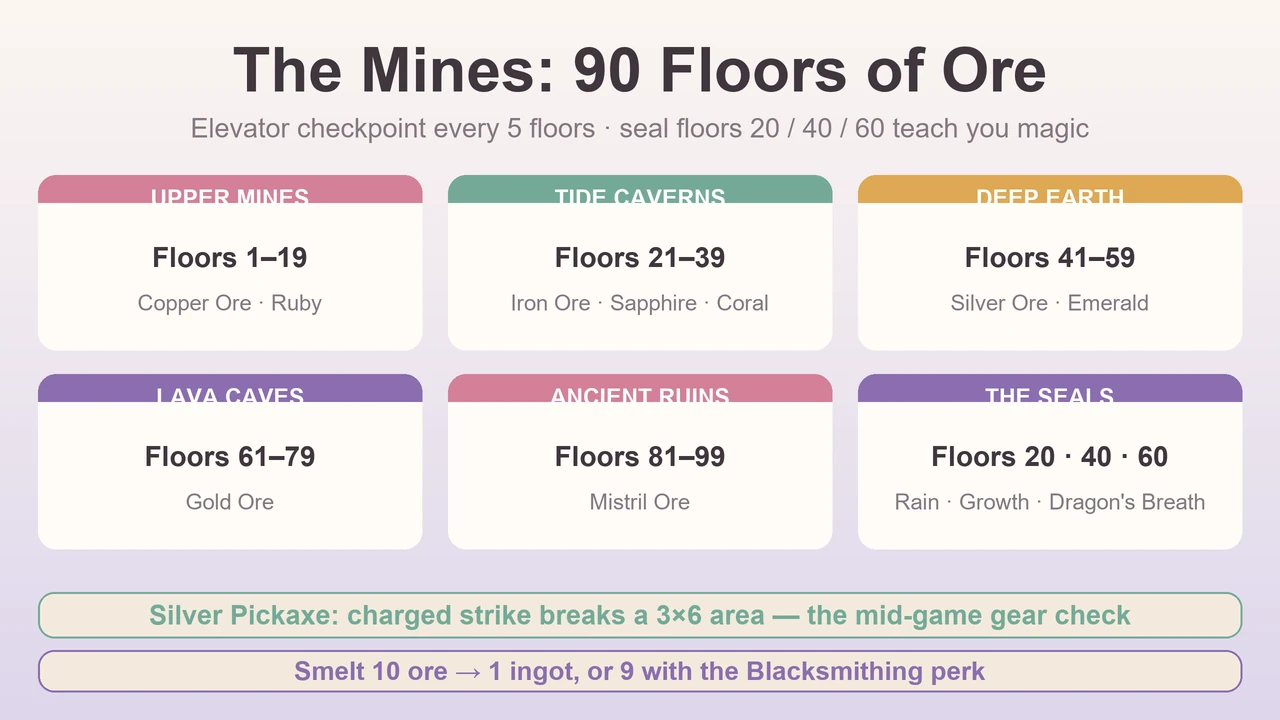
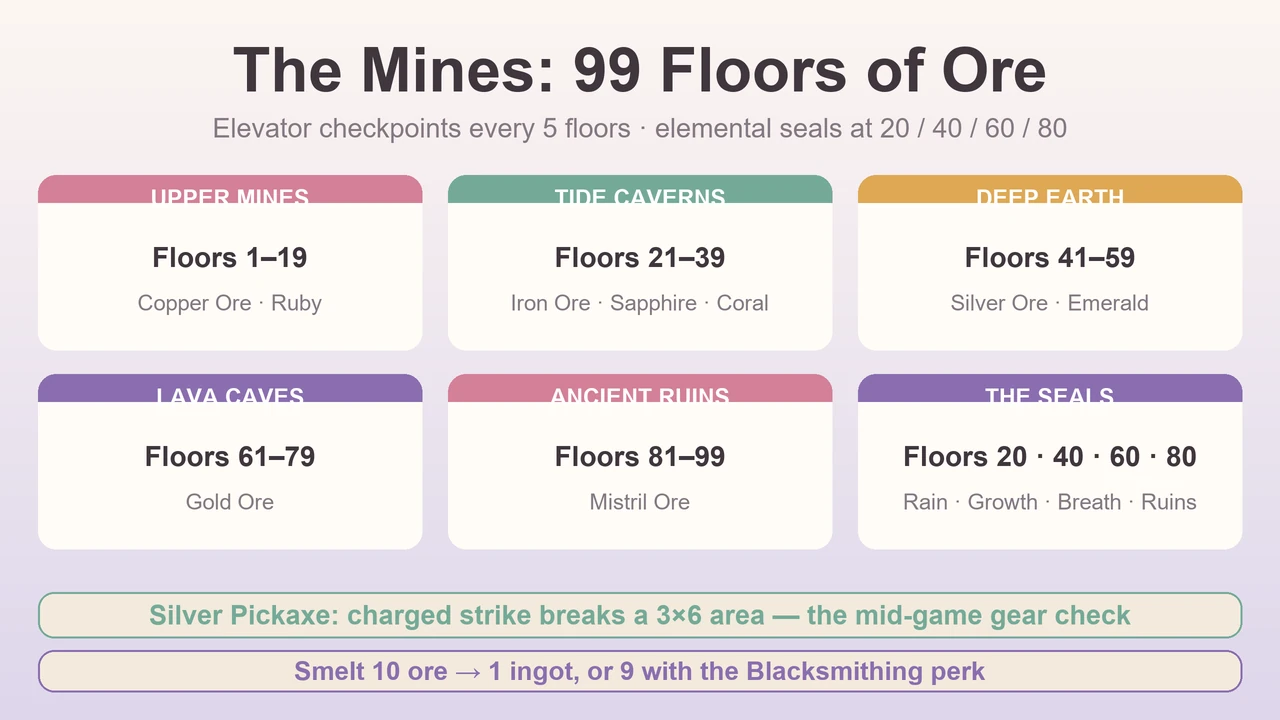
fix(Fields of Mistria): review accuracy fixes per 润色师
- Unify mine depth to 99 floors (was inconsistent: 90-floor vs 81-99 table)
- Add Fire Seal (60) and Void Seal (80) rows to the mine zone table
- Fix currency: '1,000 gold' -> '1,000 T'
- Strawberry regrows '5-8' -> '4-5' harvests; grammar 'makes' -> 'make'
- Regenerate mines WebP with 4 seals and 99-floor title

Changed region(s): [[0.1562, 0.1528, 0.8438, 0.2139], [0.6875, 0.6111, 0.9375, 0.7333], [0.4688, 0.0611, 0.5, 0.1222]]

diff --git a/scripts/gen_fields_of_mistria_images.py b/scripts/gen_fields_of_mistria_images.py
@@ -136,8 +136,8 @@ def first_week():
 # ---------------------------------------------------------------- mines
 def mines():
     img, d = canvas()
-    ctext(d, (W / 2, 70), "The Mines: 90 Floors of Ore", font(62, True), fill=BONE)
-    ctext(d, (W / 2, 128), "Elevator checkpoint every 5 floors · seal floors 20 / 40 / 60 teach you magic", font(27), fill=MUTED)
+    ctext(d, (W / 2, 70), "The Mines: 99 Floors of Ore", font(62, True), fill=BONE)
+    ctext(d, (W / 2, 128), "Elevator checkpoints every 5 floors · elemental seals at 20 / 40 / 60 / 80", font(27), fill=MUTED)
 
     zones = [
         ("UPPER MINES", "Floors 1–19", "Copper Ore · Ruby", MAUVE),
@@ -145,7 +145,7 @@ def mines():
         ("DEEP EARTH", "Floors 41–59", "Silver Ore · Emerald", GOLD),
         ("LAVA CAVES", "Floors 61–79", "Gold Ore", PURPLE),
         ("ANCIENT RUINS", "Floors 81–99", "Mistril Ore", MAUVE),
-        ("THE SEALS", "Floors 20 · 40 · 60", "Rain · Growth · Dragon's Breath", PURPLE),
+        ("THE SEALS", "Floors 20 · 40 · 60 · 80", "Rain · Growth · Breath · Ruins", PURPLE),
     ]
     bw, bh, gx, gy = 384, 175, 26, 24
     x0 = (W - (bw * 3 + gx * 2)) / 2

diff --git a/docs/fields-of-mistria/beginners-guide.md b/docs/fields-of-mistria/beginners-guide.md
@@ -15,7 +15,7 @@ tags: [Fields of Mistria, cozy game, farming sim, life sim, retro anime, beginne
 
 I found Fields of Mistria the way this guide started: a Bilibili creator walked through her first week, and the thing that stuck with me was how calm the game is about letting you do too much. The day drains fast, nothing yells at you, and the single most important skill is deciding what *not* to do before the clock runs out. Two years in Early Access taught the developers exactly what that loop should feel like, and the 1.0 release in August 2026 finished it.
 
-**Fields of Mistria** is a cozy farming life-sim from **NPC Studio** with a 90s-anime look and a surprise inside: under the pastel farm town sits a 90-floor dungeon with monsters, ores, and a dragon who slowly teaches you magic. You inherit a run-down farm in Mistria, a coastal town rebuilding after an earthquake that woke ancient magic. You farm, raise animals, fish, mine, craft, decorate, befriend 30+ villagers, and — since 1.0 — date and marry any of **12 marriage candidates**.
+**Fields of Mistria** is a cozy farming life-sim from **NPC Studio** with a 90s-anime look and a surprise inside: under the pastel farm town sits a 99-floor dungeon with monsters, ores, and a dragon who slowly teaches you magic. You inherit a run-down farm in Mistria, a coastal town rebuilding after an earthquake that woke ancient magic. You farm, raise animals, fish, mine, craft, decorate, befriend 30+ villagers, and — since 1.0 — date and marry any of **12 marriage candidates**.
 
 ![Fields of Mistria — The Complete Beginner's Guide 2026 — cozy retro-anime farming banner](/assets/images/fields-of-mistria/fields-of-mistria-hero.webp)
 
@@ -39,7 +39,7 @@ Fields of Mistria is a single-player, cozy farming life-sim with a retro anime a
 | **Playtime** | 30–60+ hours; a full run across seasons and the romance arcs |
 | **Core loop** | Water crops → fish/forage/mine → turn profit into seeds and upgrades → raise Town Renown → push the Mines |
 
-**The one-line pitch:** *Stardew Valley's cozy farm loop with a 90s-anime art style, a 90-floor dungeon, a dragon who teaches you magic, and a full marriage system.*
+**The one-line pitch:** *Stardew Valley's cozy farm loop with a 90s-anime art style, a 99-floor dungeon, a dragon who teaches you magic, and a full marriage system.*
 
 ---
 
@@ -86,7 +86,7 @@ Once you have a cash buffer around 500–800 T, the Spring meta opens up:
 | 🥕 **Carrot** | 40 T | 80 T | 6 days | Solid mid-tier profit per day |
 | 🥔 **Potato** | 40 T | 75 T | 6 days | Bake it for 80 T — cooking beats raw selling |
 | 🥬 **Cabbage** | 70 T | 180 T | 9 days | Best one-time payout once you have savings |
-| 🌸 **Strawberry** | 300 T | 125 T | 9 days, then regrows every 4 | The season-long earner — buy once, harvest 5–8 times |
+| 🌸 **Strawberry** | 300 T | 125 T | 9 days, then regrows every 4 | The season-long earner — buy once, harvest 4–5 times |
 | 🫛 **Pea** | 300 T | 135 T | 5 days, then regrows every 3 | Even better gold-per-day than strawberries |
 
 The biggest upgrade in the game isn't a crop — it's **regrowing crops**. Strawberries and peas cost real money up front, but they keep producing all season, which is what turns a farm into a money printer. When the seasons roll over: Tea is the Summer pick, Onions in Fall, Snow Peas in Winter.
@@ -113,13 +113,13 @@ You start with a **Worn Hoe** and **Worn Watering Can** plus a few spring seeds.
 
 Three mechanical facts worth knowing early:
 
-- **You can craft your own tools.** Four ingots at the Blacksmith's anvil makes a tool — cheaper than the 500 T the shop charges once you have the smelting loop going.
+- **You can craft your own tools.** Four ingots at the Blacksmith's anvil make a tool — cheaper than the 500 T the shop charges once you have the smelting loop going.
 - **Charge your strikes.** Hold the tool button to charge; upgraded metal tiers widen the area. A **Silver Pickaxe** (4 Silver Ingots, Blacksmithing level 4) breaks a **3×6 area** per charged swing.
 - **Smelting is 10 ore → 1 ingot**, but a Blacksmithing perk drops that to **9 ore per ingot** — one of the first perks worth buying.
 
 ---
 
-## The Mines: Ore Floors, Monsters & the 90-Floor Dungeon
+## The Mines: Ore Floors, Monsters & the 99-Floor Dungeon
 
 The Mines unlock through the **"Reopening the Mines" quest** once your town reaches **Stone Town Rank** (earned via requests and museum donations). Before heading in, do the **"Do Bro a Favor"** quest — it hands you a free Pickaxe.
 
@@ -128,11 +128,13 @@ The Mines are checkpoint-based: push down to a new **elevator checkpoint every 5
 | Zone | Floors | Ore & loot |
 |:-----|:-------|:-----------|
 | ⛏ **Upper Mines** | 1–19 | Copper Ore, Ruby |
-| 🌀 **Water Seal** | 20 | Gate: 1 Stone Loach, 1 Upper Mines Mushroom, 1 Ruby, 1 Lantern Moth |
+| 🌀 **Water Seal** | 20 | Gate to the Tide Caverns — unlocks the **Summon Rain** spell |
 | 🌊 **Tide Caverns** | 21–39 | Iron Ore, Sapphire, Coral, Tidestone artifacts |
-| ⛰ **Earth Seal** | 40 | Gate |
+| ⛰ **Earth Seal** | 40 | Gate to the Deep Earth — unlocks the **Growth** spell |
 | 🏔 **Deep Earth** | 41–59 | Silver Ore, Emerald (needs Iron Pickaxe or better) |
-| 🌋 **Lava Caves** | 61–79 | Gold Ore |
+| 🌋 **Fire Seal** | 60 | Gate to the Lava Caves — unlocks **Dragon's Breath** |
+| 🔥 **Lava Caves** | 61–79 | Gold Ore |
+| 🌑 **Void Seal** | 80 | Gate to the Ancient Ruins — the "Breaking the Ruins Seal" quest |
 | 🏛 **Ancient Ruins** | 81–99 | Mistril Ore |
 
 Every biome jump is a gear check. **Silver** is the big mid-game milestone: the Silver Pickaxe's charged strike breaks a 3×6 area, and the efficient way to farm Silver Ore is to elevator-jump between floors 45, 50, and 55, break the ore, then reset the mine layout.
@@ -232,7 +234,7 @@ If you've played *Stardew Valley*, *Moonlight Peaks*, or *Spiritstead*, you know
 |:----------|:------------------|:----------------|:-----------------|:------------|
 | **Price** | $13.99 | $14.99 | ~$19.99 | $9.99 |
 | **Core loop** | Farm + dungeon + magic | Farm, mine, socialize | Vampire farm sim | City-builder + spirit automation |
-| **Combat** | Yes — a 90-floor dungeon | Light (mines/caves) | Light | None |
+| **Combat** | Yes — a 99-floor dungeon | Light (mines/caves) | Light | None |
 | **Magic** | Spells from a dragon | Minimal | Vampire powers | Spirit helpers |
 | **Romance** | 12 candidates, marriage + kids | 12 candidates, marriage | 6 candidates | None |
 | **Playtime** | 30–60+ hours | 100+ hours | 40–60 hours | 3–8h adventure |
@@ -262,7 +264,7 @@ If you've played *Stardew Valley*, *Moonlight Peaks*, or *Spiritstead*, you know
 - **Water crops before anything else, every day.** Unwatered crops skip growth; crops still planted at the season change die. This is the whole game in Spring.
 - **Fishing is your day-one income.** Common fish sell for 30–45 T, a Goldfish for 120 T. Fish the three ponds on the Eastern Road, then exit and re-enter to respawn them.
 - **Take the free soup at the inn daily** (20 HP + energy), and use the bathhouse and fountains.
-- **Buy the 10-slot backpack upgrade** at the general store for 1,000 gold early — inventory space is a tax on everything.
+- **Buy the 10-slot backpack upgrade** at the general store for 1,000 T early — inventory space is a tax on everything.
 - **Get to Stone Town Rank fast** (requests + museum donations) — it unlocks the Mines.
 - **Buy the ingot-cost perk at the Mines statue** (9 ore instead of 10) — it pays off on every ingot.
 - **Craft your own tools** once you can smelt — four ingots beats paying 500 T.
@@ -283,7 +285,7 @@ If you've played *Stardew Valley*, *Moonlight Peaks*, or *Spiritstead*, you know
 ## FAQ
 
 ### What is Fields of Mistria?
-A cozy farming life-sim from **NPC Studio** set in a coastal town rebuilding after an earthquake. You farm, ranch, fish, mine a 90-floor dungeon, learn magic from a dragon, and romance 12 candidates. It left Early Access on **August 5, 2026** at an Overwhelmingly Positive rating.
+A cozy farming life-sim from **NPC Studio** set in a coastal town rebuilding after an earthquake. You farm, ranch, fish, mine a 99-floor dungeon, learn magic from a dragon, and romance 12 candidates. It left Early Access on **August 5, 2026** at an Overwhelmingly Positive rating.
 
 ### Is Fields of Mistria worth it in 2026?
 At **$13.99** (less during the launch week), yes. It's the same price as Stardew Valley with a distinctive 90s-anime art style, a real dungeon and combat system, and a finished marriage system. If you want the deepest long-haul farm sim, Stardew still wins; if you want something that fights back and looks like *Sailor Moon*, this is it.

diff --git a/docs/fields-of-mistria/index.md b/docs/fields-of-mistria/index.md
@@ -35,7 +35,7 @@ Fields of Mistria is a **cozy farming life-sim** from indie studio **NPC Studio*
 |:--------|:------------|
 | 🌾 **Farming** | 28-day seasons, crops die at the season change, and daily watering matters more than anything else |
 | 🐔 **Ranching** | Barns and coops, daily petting, and a Ranching skill that unlocks auto-feeders and a big bell |
-| ⛏ **Mines & Combat** | A 90-floor dungeon with checkpoints, biome-gated ores, monsters, and boss-style seal floors |
+| ⛏ **Mines & Combat** | A 99-floor dungeon with checkpoints, biome-gated ores, monsters, and boss-style seal floors |
 | 🐉 **Magic & Essence** | Feed Essence to Caldarus statues for perks; learn spells from the dragon across the floor seals |
 | 💘 **Romance & Marriage** | 12 marriage candidates, 10-heart events, a customizable wedding, and optional children |
 | 🏛 **Town & Museum** | Repair Mistria, raise Town Renown to 100, complete the museum collections |
